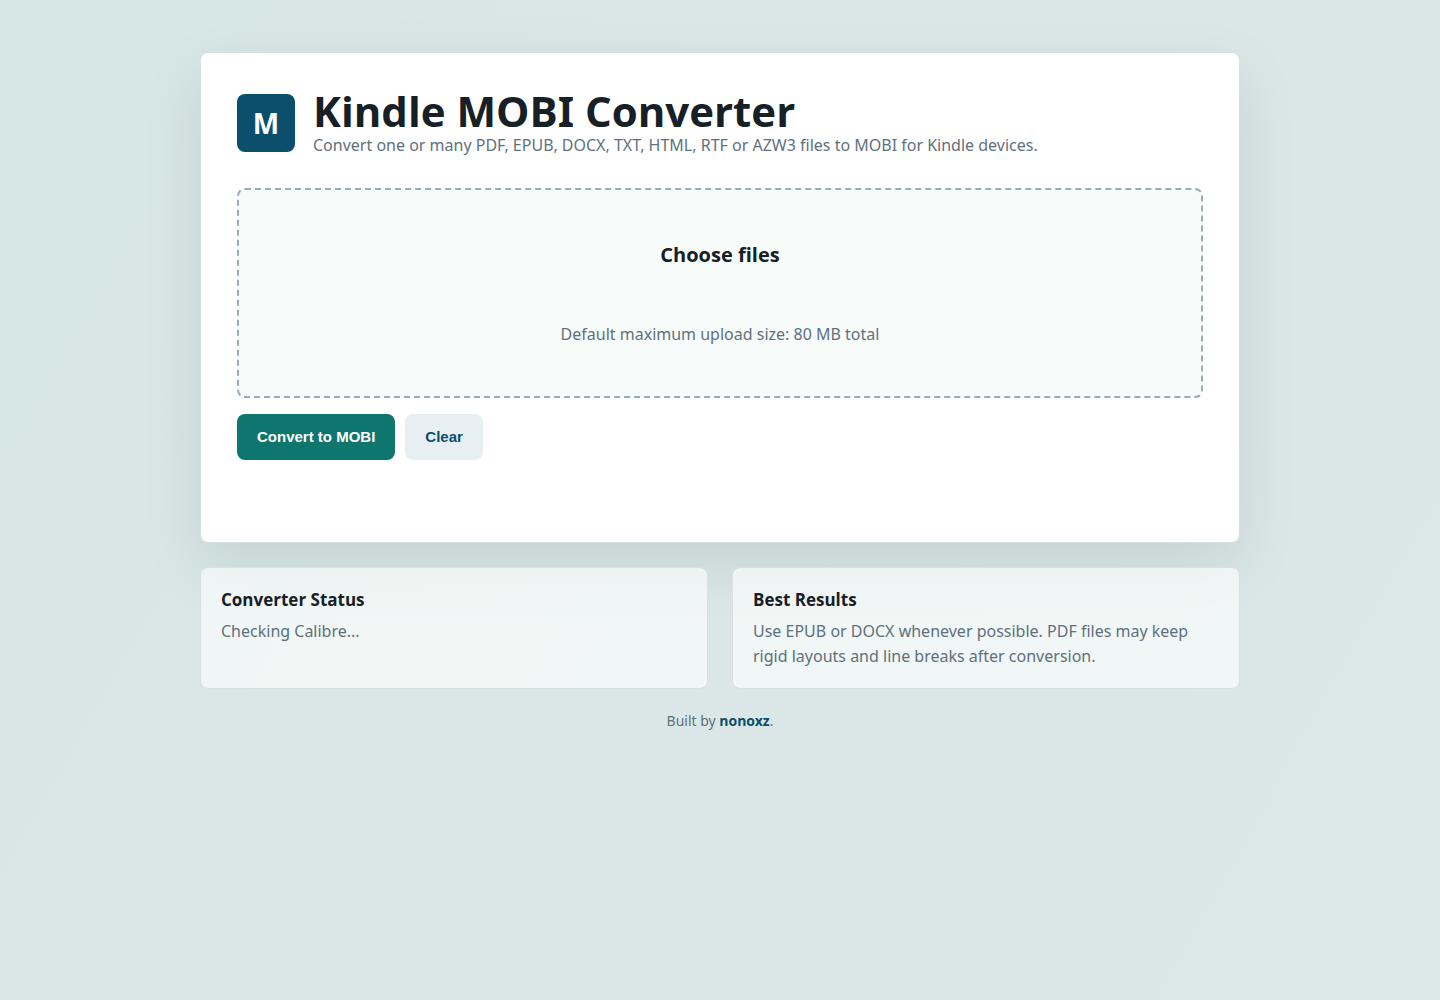
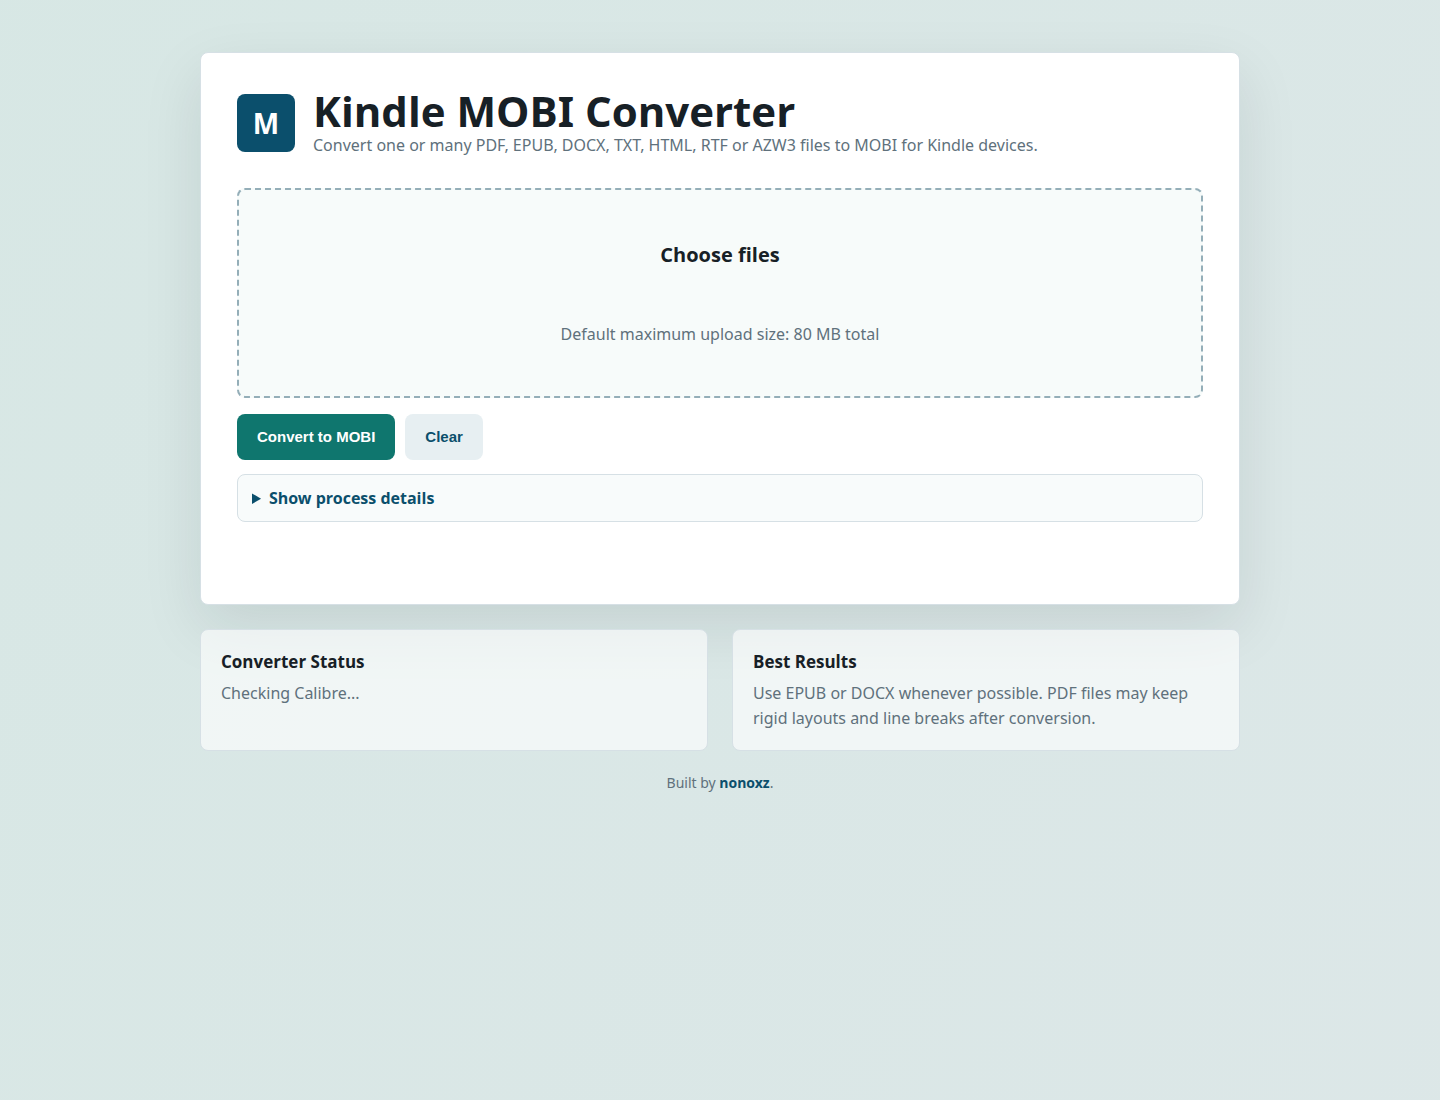
Add collapsible process log panel

diff --git a/public/app.js b/public/app.js
@@ -9,6 +9,9 @@ const progressWrap = document.querySelector('#progressWrap');
 const progressLabel = document.querySelector('#progressLabel');
 const progressPercent = document.querySelector('#progressPercent');
 const progressBar = document.querySelector('#progressBar');
+const processDetails = document.querySelector('#processDetails');
+const processLog = document.querySelector('#processLog');
+const clearLogButton = document.querySelector('#clearLogButton');
 const resultsPanel = document.querySelector('#resultsPanel');
 const resultsSummary = document.querySelector('#resultsSummary');
 const resultsList = document.querySelector('#resultsList');
@@ -21,6 +24,13 @@ fileInput.addEventListener('change', () => {
   resetProgress();
   setStatus('', '');
   clearResults();
+  resetLog();
+  if (files.length > 0) {
+    appendLog(`Selected ${files.length} file${files.length === 1 ? '' : 's'} (${formatBytes(totalSize(files))} total).`);
+    for (const file of files) {
+      appendLog(`- ${file.name} (${formatBytes(file.size)})`);
+    }
+  }
 });
 
 clearButton.addEventListener('click', () => {
@@ -29,6 +39,11 @@ clearButton.addEventListener('click', () => {
   resetProgress();
   setStatus('', '');
   clearResults();
+  resetLog();
+});
+
+clearLogButton.addEventListener('click', () => {
+  resetLog();
 });
 
 form.addEventListener('submit', event => {
@@ -37,6 +52,7 @@ form.addEventListener('submit', event => {
 
   if (files.length === 0) {
     setStatus('Choose at least one file before converting.', 'error');
+    appendLog('Conversion blocked: no files selected.', 'error');
     return;
   }
 
@@ -50,38 +66,49 @@ function convertFiles(files) {
   setProgress(0, 'Preparing files...');
   setStatus(`Converting ${files.length} file${files.length === 1 ? '' : 's'}. Keep this window open.`, '');
   clearResults();
+  resetLog();
+  appendLog(`Starting batch conversion for ${files.length} file${files.length === 1 ? '' : 's'}.`);
+  appendLog(`Total upload size: ${formatBytes(totalSize(files))}.`);
 
   const data = new FormData();
   for (const file of files) {
     data.append('file', file);
+    appendLog(`Queued: ${file.name} (${formatBytes(file.size)}).`);
   }
 
   const request = new XMLHttpRequest();
   request.open('POST', '/api/convert');
   request.responseType = 'json';
   request.timeout = Math.max(240000, files.length * 180000 + 60000);
+  appendLog(`Request timeout set to ${Math.round(request.timeout / 1000)} seconds.`);
 
   request.upload.addEventListener('progress', event => {
     if (!event.lengthComputable) {
       setProgress(12, 'Uploading files...');
+      appendLog('Uploading files. Total upload size is not available from the browser.');
       return;
     }
 
     const uploadPercent = Math.round((event.loaded / event.total) * 55);
     setProgress(Math.max(4, uploadPercent), 'Uploading files...');
+    appendLogOnce('upload-started', 'Upload started.');
+    updateLastUploadLog(event.loaded, event.total);
   });
 
   request.addEventListener('loadstart', () => {
     setProgress(3, 'Starting batch conversion...');
+    appendLog('HTTP request opened. Sending files to the server.');
   });
 
   request.upload.addEventListener('load', () => {
     setProgress(65, 'Files received. Calibre is converting them one by one...');
     progressBar.classList.add('is-working');
+    appendLog('Upload completed. Server is running Calibre conversions sequentially.');
   });
 
   request.addEventListener('load', () => {
     const payload = request.response;
+    appendLog(`Server responded with HTTP ${request.status}.`);
 
     if (request.status < 200 || request.status >= 300) {
       const message = payload?.error || `Conversion failed with HTTP status ${request.status}.`;
@@ -96,7 +123,9 @@ function convertFiles(files) {
 
     setProgress(100, 'Batch conversion finished.');
     renderResults(payload);
+    appendServerDetails(payload);
     setStatus(`Converted ${payload.files.length} of ${files.length} file${files.length === 1 ? '' : 's'}.`, payload.failures?.length ? 'warning' : 'success');
+    appendLog('Batch conversion finished.');
     button.disabled = false;
     clearButton.disabled = false;
   });
@@ -125,8 +154,10 @@ async function loadHealth() {
     health.textContent = payload.converterAvailable
       ? 'Calibre is available. The server can convert files.'
       : 'Calibre is not available. Install Calibre to enable real conversions.';
+    appendLog(`Health check: converterAvailable=${payload.converterAvailable}.`);
   } catch {
     health.textContent = 'Could not check converter status.';
+    appendLog('Health check failed. The server may be offline.', 'error');
   }
 }
 
@@ -201,6 +232,23 @@ function createResultItem(file) {
   return item;
 }
 
+function appendServerDetails(payload) {
+  for (const file of payload.files || []) {
+    appendLog(`Converted: ${file.originalName} -> ${file.filename} (${formatBytes(file.size)}).`, 'success');
+    if (file.log) {
+      appendLog(`Calibre log for ${file.originalName}:\n${file.log}`);
+    }
+  }
+
+  if (payload.zip) {
+    appendLog(`ZIP ready: ${payload.zip.filename} (${formatBytes(payload.zip.size)}).`, 'success');
+  }
+
+  for (const failure of payload.failures || []) {
+    appendLog(`Failed: ${failure.originalName}: ${failure.error}`, 'error');
+  }
+}
+
 function buildDownloadUrl(downloadUrl, name) {
   const safeName = normalizeMobiName(name);
   return `${downloadUrl}?name=${encodeURIComponent(safeName)}`;
@@ -221,8 +269,10 @@ function finishWithError(message, payload = null) {
   progressBar.classList.remove('is-working');
   setProgress(100, 'Conversion stopped.');
   setStatus(message, 'error');
+  appendLog(message, 'error');
   if (payload?.failures?.length) {
     renderResults({ files: payload.files || [], failures: payload.failures, zip: null });
+    appendServerDetails(payload);
   }
   button.disabled = false;
   clearButton.disabled = false;
@@ -257,16 +307,49 @@ function clearResults() {
   zipDownload.hidden = true;
 }
 
+function resetLog() {
+  processLog.textContent = '';
+  loggedOnce.clear();
+  lastUploadLog = '';
+}
+
+function appendLog(message, type = 'info') {
+  const now = new Date().toLocaleTimeString();
+  const prefix = type === 'error' ? 'ERROR' : type === 'success' ? 'OK' : 'INFO';
+  processLog.textContent += `[${now}] [${prefix}] ${message}\n`;
+  processLog.scrollTop = processLog.scrollHeight;
+}
+
+const loggedOnce = new Set();
+let lastUploadLog = '';
+
+function appendLogOnce(key, message) {
+  if (loggedOnce.has(key)) return;
+  loggedOnce.add(key);
+  appendLog(message);
+}
+
+function updateLastUploadLog(loaded, total) {
+  const percent = Math.round((loaded / total) * 100);
+  const next = `Upload progress: ${percent}% (${formatBytes(loaded)} of ${formatBytes(total)}).`;
+  if (next === lastUploadLog) return;
+  lastUploadLog = next;
+  appendLog(next);
+}
+
 function getSelectedFiles() {
   return Array.from(fileInput.files || []);
+}
+
+function totalSize(files) {
+  return files.reduce((sum, file) => sum + file.size, 0);
 }
 
 function formatSelection(files) {
   if (files.length === 0) return 'Default maximum upload size: 80 MB total';
   if (files.length === 1) return `${files[0].name} (${formatBytes(files[0].size)})`;
 
-  const totalSize = files.reduce((sum, file) => sum + file.size, 0);
-  return `${files.length} files selected (${formatBytes(totalSize)} total)`;
+  return `${files.length} files selected (${formatBytes(totalSize(files))} total)`;
 }
 
 function formatBytes(bytes) {
@@ -283,4 +366,5 @@ function formatBytes(bytes) {
   return `${value.toFixed(value >= 10 ? 0 : 1)} ${unit}`;
 }
 
+appendLog('Interface loaded. Waiting for files.');
 loadHealth();

diff --git a/public/styles.css b/public/styles.css
@@ -369,3 +369,69 @@ h2 {
     width: 100%;
   }
 }
+
+.process-details {
+  margin-top: 14px;
+  border: 1px solid var(--line);
+  border-radius: 8px;
+  background: #f8fbfb;
+}
+
+.process-details summary {
+  min-height: 44px;
+  padding: 12px 14px;
+  color: var(--accent-strong);
+  font-weight: 750;
+  cursor: pointer;
+  user-select: none;
+}
+
+.process-details[open] summary {
+  border-bottom: 1px solid var(--line);
+}
+
+.process-toolbar {
+  display: flex;
+  align-items: center;
+  justify-content: space-between;
+  gap: 12px;
+  padding: 10px 12px;
+  color: var(--muted);
+  font-size: 13px;
+  font-weight: 700;
+}
+
+.log-clear-button {
+  min-height: 34px;
+  padding: 0 12px;
+  background: #e7eff2;
+  color: var(--accent-strong);
+  font-size: 13px;
+}
+
+.process-log {
+  width: calc(100% - 24px);
+  min-height: 160px;
+  max-height: 300px;
+  margin: 0 12px 12px;
+  padding: 12px;
+  overflow: auto;
+  border-radius: 8px;
+  background: #111827;
+  color: #d1fae5;
+  font-family: "SFMono-Regular", Consolas, "Liberation Mono", monospace;
+  font-size: 12px;
+  line-height: 1.55;
+  white-space: pre-wrap;
+}
+
+@media (max-width: 760px) {
+  .process-toolbar {
+    align-items: stretch;
+    flex-direction: column;
+  }
+
+  .log-clear-button {
+    width: 100%;
+  }
+}

diff --git a/public/index.html b/public/index.html
@@ -40,6 +40,15 @@
           </div>
         </div>
 
+        <details id="processDetails" class="process-details">
+          <summary>Show process details</summary>
+          <div class="process-toolbar">
+            <span>Conversion log</span>
+            <button id="clearLogButton" type="button" class="log-clear-button">Clear log</button>
+          </div>
+          <pre id="processLog" class="process-log" aria-live="polite"></pre>
+        </details>
+
         <div id="status" class="status" aria-live="polite"></div>
 
         <section id="resultsPanel" class="results-panel" hidden>

diff --git a/CHANGELOG.md b/CHANGELOG.md
@@ -2,6 +2,14 @@
 
 All notable changes to this project will be documented in this file.
 
+## [0.3.0] - 2026-05-28
+
+### Added
+
+- Collapsible process details panel below the progress bar.
+- Browser-side conversion log with upload progress, server response, converted files, failures and Calibre logs.
+- Clear log control for the process details panel.
+
 ## [0.2.0] - 2026-05-28
 
 ### Added

diff --git a/README.md b/README.md
@@ -14,6 +14,7 @@ Built by [nonoxz](https://github.com/nonoxz).
 - Review converted files in a results list.
 - Rename each MOBI file before downloading it.
 - Browser-based upload flow with progress feedback.
+- Collapsible process details panel with conversion logs.
 - Manual download links for each converted file.
 - Backend powered by Node.js and Calibre's `ebook-convert`.
 - No npm runtime dependencies.